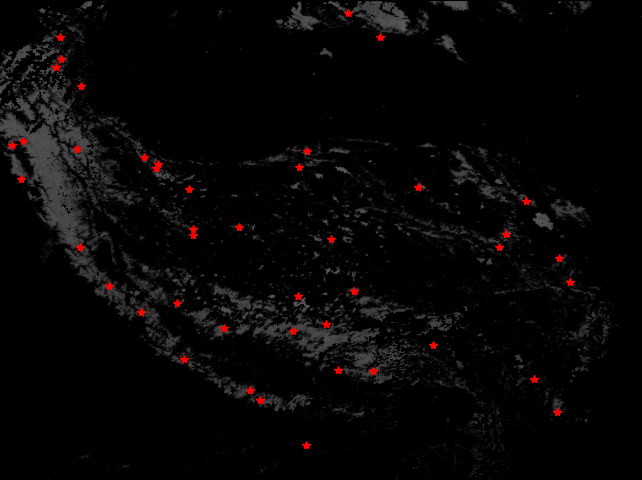
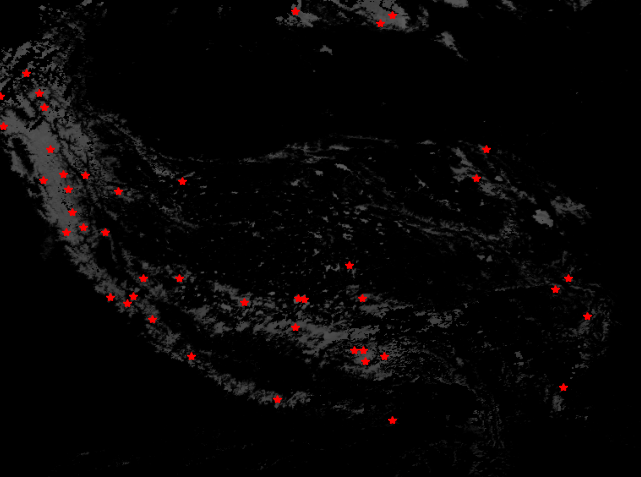
Update sample picture

diff --git a/visualizer.py b/visualizer.py
@@ -112,7 +112,7 @@ if __name__ == "__main__":
     #img = HilbertCurver(8)
 
     # show pois
-    #sample = Sampler(rasterio.open(r'data\img\NDSI_2021_02_19.tif').read(1))
+    sample = Sampler(rasterio.open(r'data\img\NDSI_2021_02_19.tif').read(1))
 
     # Statistics on the snow cover rate in the Sanjiangyuan area
-    analyzer = SanJiangYuanAnalyzer()
+    #analyzer = SanJiangYuanAnalyzer()
